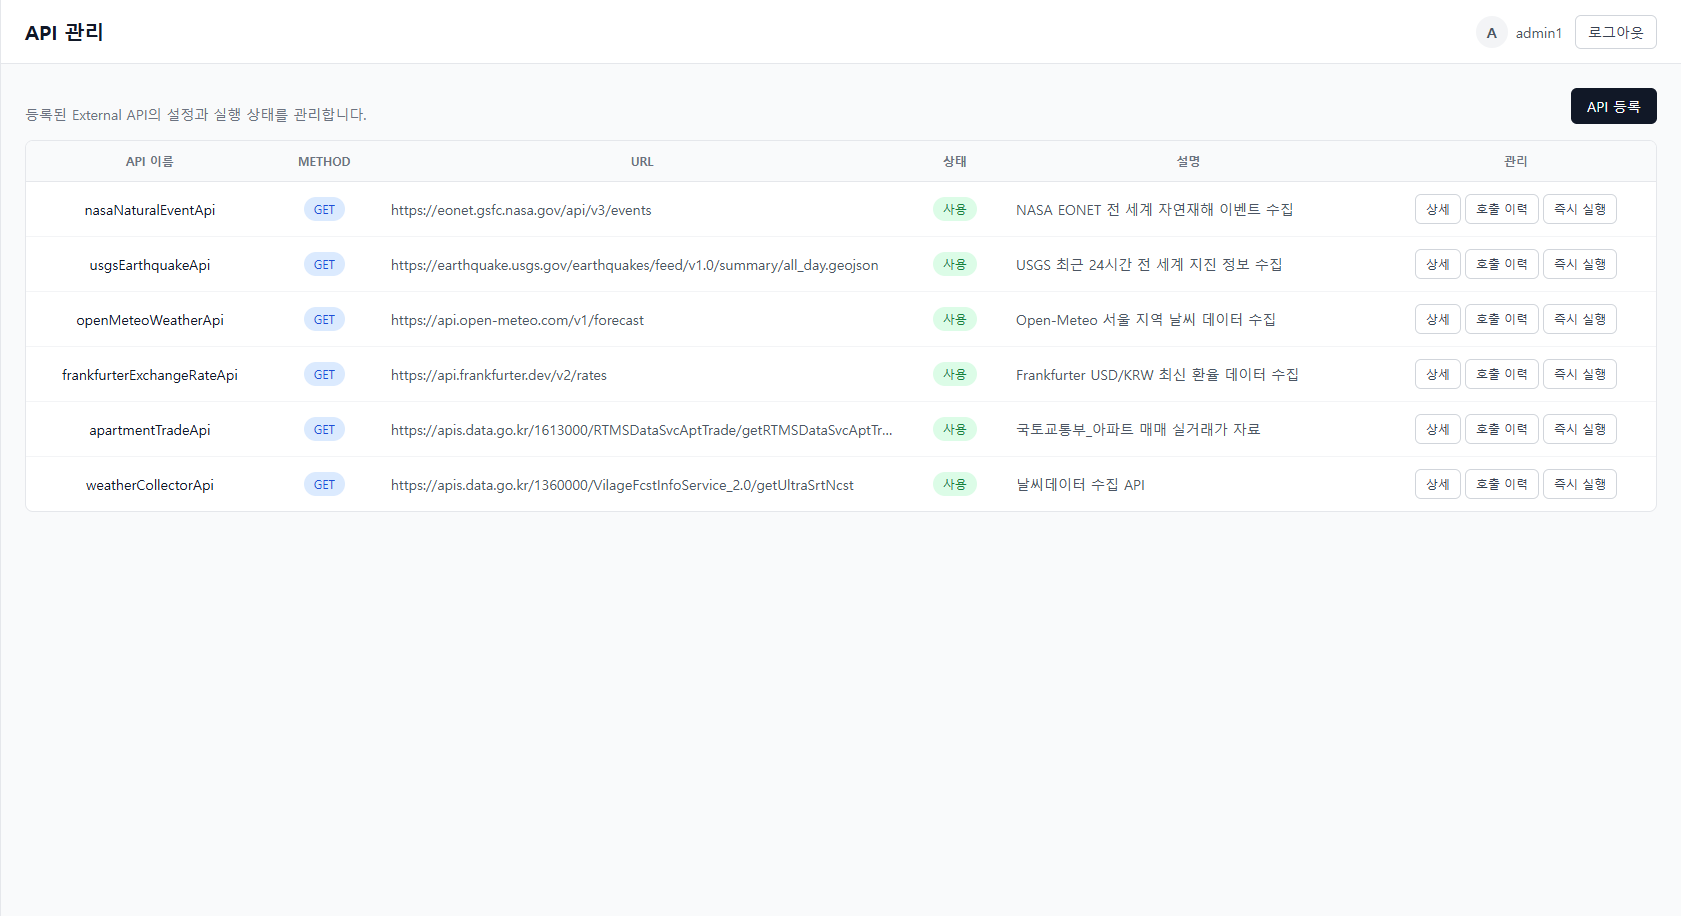
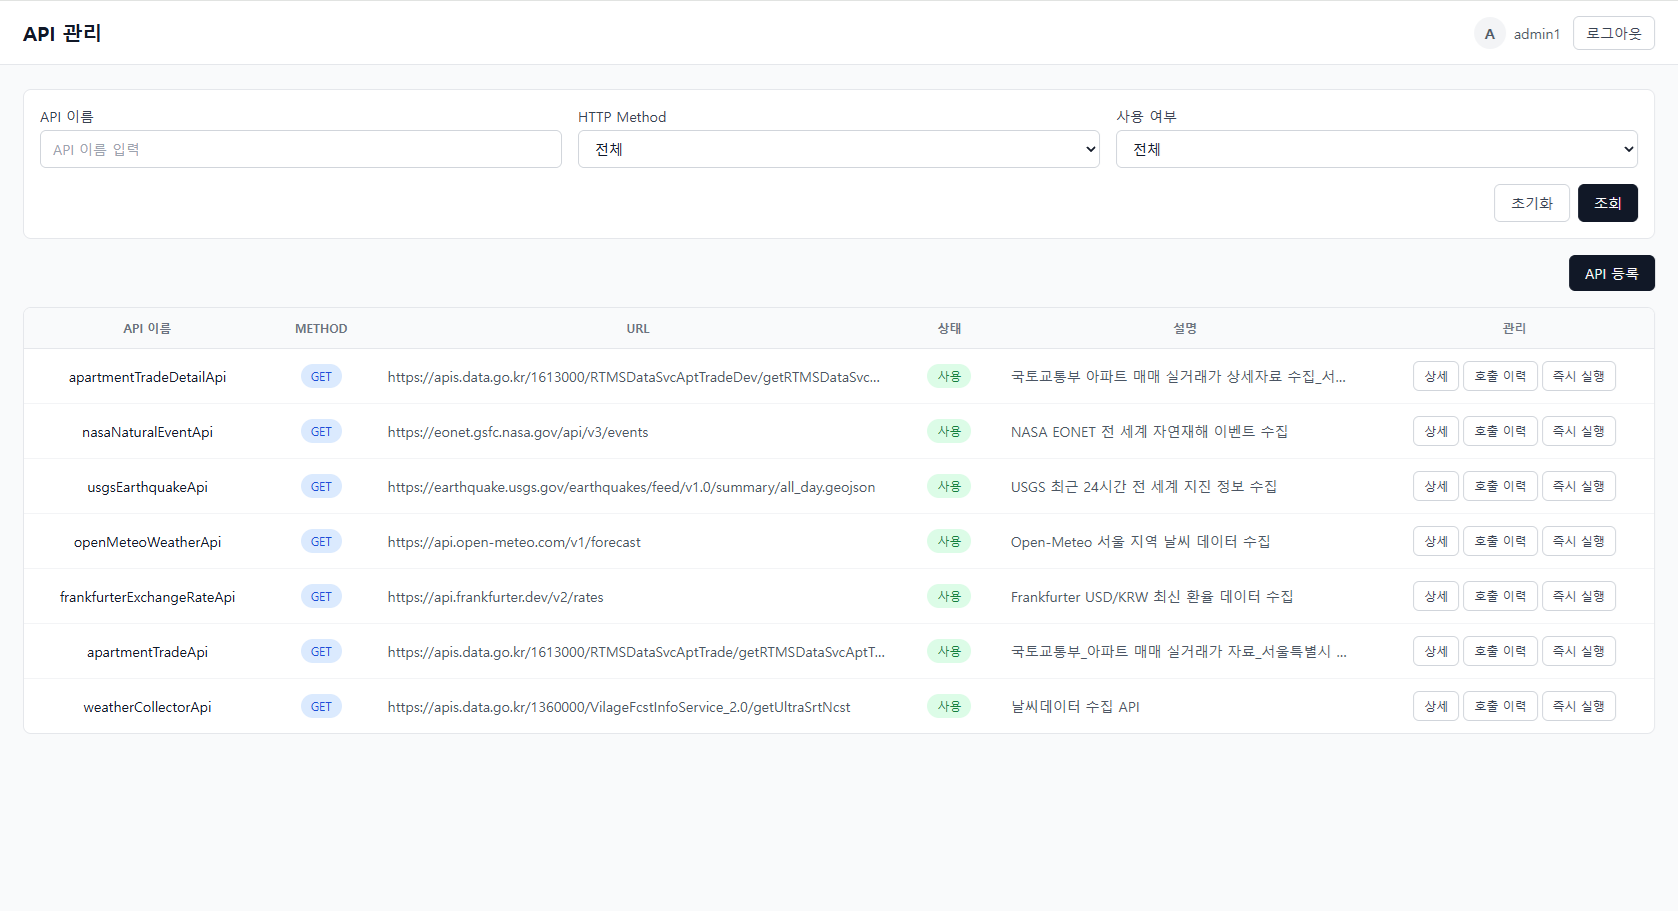
docs: 프론트엔드 README 최신화 및 문서 구조 개선

diff --git a/README.md b/README.md
@@ -1,34 +1,93 @@
 # Scheduler UI
 
-Quartz 기반 동적 스케줄 관리 시스템의 관리자 웹 UI입니다.
+Vue 3 기반의 Dynamic Scheduler 관리자 웹 애플리케이션입니다.
 
-Spring Boot 기반 Scheduler API와 연동하여 스케줄 등록·수정·실행 상태 조회와 외부 API 관리 기능을 제공합니다.
+Spring Boot와 Quartz 기반의 백엔드 REST API와 연동하여 동적 스케줄 관리, 외부 API 데이터 수집, JSON/XML 데이터 가공 및 AI 데이터 분석 기능을 웹 화면에서 사용할 수 있습니다.
 
-## 주요 기능
+Job과 Trigger의 실행 상태를 조회하고, 외부 API 호출 이력부터 Raw Data, 가공 작업 및 결과까지 확인할 수 있습니다.
 
-- Dashboard
-- Job 등록 / 수정 / 삭제
-- Job 중지 / 재개
-- Job 실행 이력 조회
-- 외부 API 등록 / 수정 / 삭제
-- 외부 API 실행 및 호출 이력 조회
-- 수집 데이터 조회
-- 로그인 / 회원가입
-- 회원가입 활성화 여부에 따른 UI 제어
+Spring Security의 세션 인증과 연동하며, Pinia를 이용한 사용자 인증 상태 관리 및 역할별 화면 접근 제어를 지원합니다.
 
-## Tech Stack
+---
 
-- Vue 3
-- Vite
-- Vue Router
-- Axios
-- Tailwind CSS
+## Features
 
-## Backend
+### Dashboard & Scheduler Monitoring
 
-Backend repository:
+스케줄러의 실행 상태와 운영 정보를 조회합니다.
 
-- [spring-quartz-scheduler](https://github.com/ideale17/spring-quartz-scheduler)
+- 대시보드를 통한 스케줄 실행 현황 확인
+- Quartz Scheduler 상태 및 운영 정보 조회
+- Job 실행 이력 및 상태별 조회
+
+### Job Management
+
+Quartz Job과 Trigger를 웹 화면에서 관리합니다.
+
+- Job 등록, 조회, 수정, 삭제
+- Job 즉시 실행, 중지 및 재개
+- 여러 Job 일괄 실행, 중지 및 재개
+- CRON / SIMPLE 스케줄 설정
+- Misfire 정책 및 실행 파라미터 관리
+- Job 실행 상태 및 이력 조회
+
+### External API Management
+
+외부 API의 호출 설정과 데이터 수집 이력을 관리합니다.
+
+- 외부 API 등록, 조회, 수정, 삭제
+- HTTP Method 및 인증정보 설정
+- Header / Query / Body 파라미터 관리
+- 날짜·시간 기반 동적 파라미터 및 오프셋 설정
+- LIST / RANGE 기반 반복 파라미터 설정
+- 재시도 및 페이징 설정
+- 외부 API 즉시 실행
+- 실행 이력 및 HTTP 호출 결과 조회
+- 실제 요청 파라미터 및 재시도 상세 정보 조회
+
+### Raw Data Management
+
+외부 API를 통해 수집된 원본 데이터를 조회합니다.
+
+- Raw Data 목록 및 상세 조회
+- JSON/XML 응답 데이터 확인
+- JSON 데이터 트리 뷰어
+- 수집 이력 및 호출 정보 연계 조회
+- Raw Data별 가공 상태 확인
+
+### Data Transformation
+
+JSON/XML 데이터 가공 규칙과 처리 결과를 관리합니다.
+
+- 가공 규칙 등록 및 조회
+- 가공 규칙 버전 및 필드 설정
+- JSONPath / XPath 기반 데이터 추출 설정
+- 필드 타입 및 기본값 설정
+- 샘플 데이터 기반 가공 결과 미리보기
+- 가공 대상 및 작업 상태 조회
+- 가공 결과 목록 및 상세 조회
+
+### AI Data Analysis
+
+가공된 데이터를 대상으로 AI 분석 기능을 제공합니다.
+
+- 외부 API 및 가공 규칙별 분석 대상 선택
+- 가공 규칙 버전 및 조회 기간 설정
+- 데이터셋 정보 및 필드 메타데이터 조회
+- 가공 데이터 목록 및 미리보기
+- 자연어 기반 AI 데이터 분석 요청
+- AI 분석 결과 표시
+
+### Authentication & Authorization
+
+Spring Security 기반 인증과 사용자 권한에 따른 화면 접근을 관리합니다.
+
+- 로그인 및 로그아웃
+- 회원가입 활성화 여부에 따른 화면 접근 제어
+- Pinia 기반 로그인 사용자 상태 관리
+- ADMIN / USER 역할 기반 접근 제어
+- 관리자 전용 등록, 수정 및 실행 기능 제어
+- 미인증 사용자 로그인 화면 이동
 
 ## Screenshots
 
@@ -44,26 +103,135 @@ Backend repository:
 
 ![External API Management](docs/images/external-api.png)
 
-## Project Setup
+## Tech Stack
+
+### Frontend
+
+| Technology   | Version / Description |
+| ------------ | --------------------- |
+| Vue.js       | 3                     |
+| Vite         | 7                     |
+| JavaScript   | ES Modules            |
+| Vue Router   | 4                     |
+| Pinia        | 4                     |
+| Axios        | HTTP Client           |
+| Tailwind CSS | 3                     |
+
+### Development Tools
+
+| Technology   | Description     |
+| ------------ | --------------- |
+| ESLint       | Code Linting    |
+| Prettier     | Code Formatting |
+| Vue DevTools | Vue Debugging   |
+
+## Getting Started
+
+### Prerequisites
+
+로컬 환경에서 애플리케이션을 실행하려면 다음 항목이 필요합니다.
+
+- Node.js 20.19.0 이상(20.x) 또는 22.12.0 이상
+- npm
+- Git
+- 실행 중인 Scheduler Backend
+
+백엔드 설치 및 실행 방법은 [spring-quartz-scheduler](https://github.com/ideale17/spring-quartz-scheduler)를 참고하세요.
+
+### 1. Clone Repository
+
+```bash
+git clone https://github.com/ideale17/scheduler-ui.git
+cd scheduler-ui
+```
+
+### 2. Install Dependencies
+
+프로젝트 의존성을 설치합니다.
 
 ```bash
 npm install
 ```
 
-### Development
+### 3. API Configuration
+
+프론트엔드는 환경변수 `VITE_API_BASE_URL`을 통해 백엔드 API 주소를 설정합니다.
+
+로컬 개발 환경에서는 `.env.development` 파일에 다음 값이 설정되어 있습니다.
+
+```properties
+VITE_API_BASE_URL=http://localhost:8080
+```
+
+백엔드 애플리케이션이 `http://localhost:8080`에서 실행 중이어야 합니다.
+
+운영 환경에서는 `.env.production`에 다음 값이 설정되어 있습니다.
+
+```properties
+VITE_API_BASE_URL=/api
+```
+
+운영 환경에서는 `/api` 경로를 통해 백엔드 API에 접근하도록 구성되어 있습니다.
+
+### 4. Run Development Server
+
+개발 서버를 실행합니다.
 
 ```bash
 npm run dev
 ```
 
-### Production Build
+기본 접속 주소:
+
+```text
+http://localhost:5173
+```
+
+로그인 및 데이터 조회 기능을 사용하려면 백엔드 서버가 실행 중이어야 합니다.
+
+### 5. Production Build
+
+프로덕션 빌드를 실행합니다.
 
 ```bash
 npm run build
 ```
 
-### Lint
+빌드 결과는 `dist/` 디렉터리에 생성됩니다.
 
-```bash
-npm run lint
+## Project Structure
+
+```text
+scheduler-ui/
+├── public/                  # 정적 리소스
+├── src/
+│   ├── api/                 # 백엔드 REST API 연동
+│   ├── components/          # 공통 UI 컴포넌트
+│   ├── layouts/             # 공통 화면 레이아웃
+│   ├── pages/               # 주요 기능별 화면
+│   ├── router/              # Vue Router 및 접근 제어
+│   ├── stores/              # Pinia 상태 관리
+│   ├── styles/              # 공통 스타일
+│   ├── utils/               # 공통 유틸리티
+│   ├── App.vue              # 최상위 Vue 컴포넌트
+│   └── main.js              # 애플리케이션 진입점
+├── docs/                    # 프로젝트 문서 및 스크린샷
+├── .env.development         # 개발 환경 API 설정
+├── .env.production          # 운영 환경 API 설정
+├── package.json             # 의존성 및 npm 스크립트
+├── vite.config.js           # Vite 설정
+├── tailwind.config.js       # Tailwind CSS 설정
+└── README.md
 ```
+
+---
+
+## Related Repositories
+
+- [spring-quartz-scheduler](https://github.com/ideale17/spring-quartz-scheduler) — Spring Boot 및 Quartz 기반 백엔드 애플리케이션
+
+---
+
+## Demo
+
+https://scheduler.pomibori.dev/
